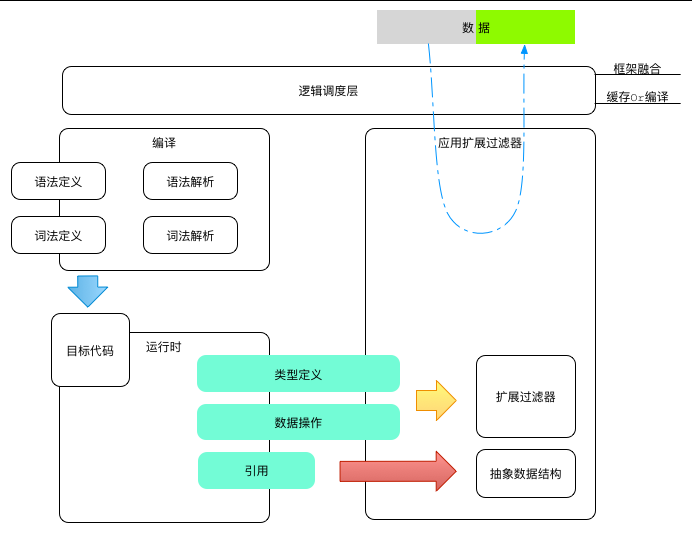
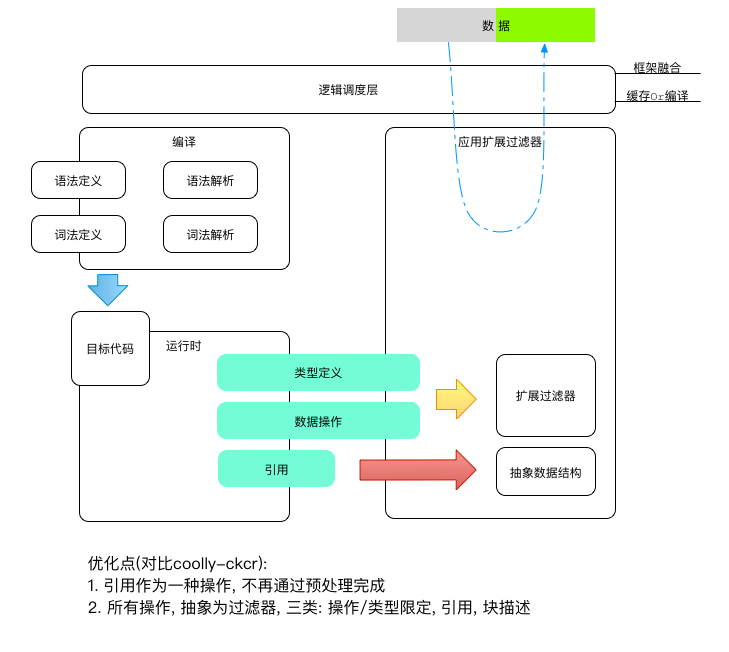
增加文档涉及部分设计图

diff --git a/doc/markdown/core-func-runner-daemon.md b/doc/markdown/core-func-runner-daemon.md
@@ -1,10 +1,12 @@
 # Daemon运行方式
 
+![Daemon应用结构图](https://raw.githubusercontent.com/goosman-lei/ice/master/doc/resource/images/0005.ice-core-func-runner-daemon.png)
+
 ## Daemon
 
 Daemon作为daemon运行方式的程序入口.
 
-代码目录为: src/daemon/<class>/<action>.php
+代码目录为: src/daemon/&lt;class&gt;/&lt;action&gt;.php
 
 Daemon需要继承\FD_Daemon. 路由调度会自动执行Daemon的execute方法.
 

diff --git a/doc/markdown/core-func-runner-service.md b/doc/markdown/core-func-runner-service.md
@@ -1,5 +1,7 @@
 # Service运行方式
 
+![Service应用结构图](https://raw.githubusercontent.com/goosman-lei/ice/master/doc/resource/images/0006.ice-core-func-runner-service.png)
+
 ## Service
 
 Service作为service运行方式的程序入口.

diff --git a/doc/markdown/core-func-resource.md b/doc/markdown/core-func-resource.md
@@ -1,6 +1,6 @@
 # 资源管理
 
-资源管理, 是Ice中的一个特色的Feature.
+![资源管理模块设计图](https://raw.githubusercontent.com/goosman-lei/ice/master/doc/resource/images/0007.ice-core-func-resource.png)
 
 ## 设计思路
 

diff --git a/doc/markdown/core-func-runner-web.md b/doc/markdown/core-func-runner-web.md
@@ -1,5 +1,7 @@
 # Web运行方式
 
+![Web应用结构图](https://raw.githubusercontent.com/goosman-lei/ice/master/doc/resource/images/0004.ice-core-func-runner-web.png)
+
 ## Action
 
 Action作为Web运行方式的程序入口.
